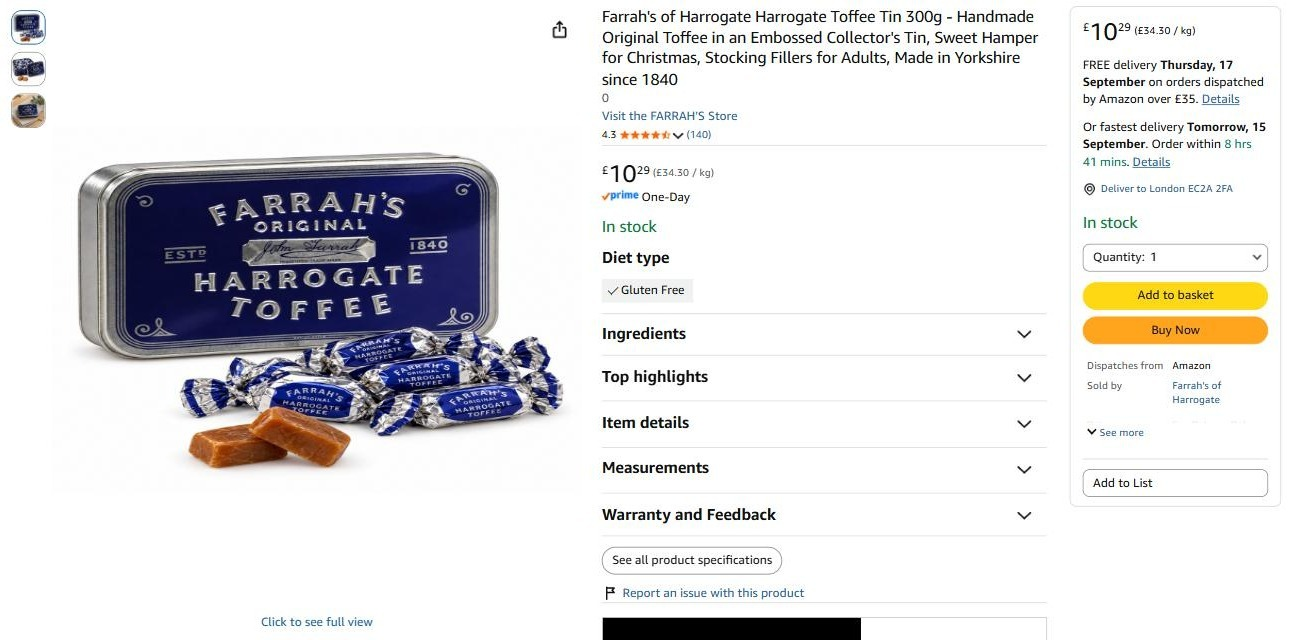
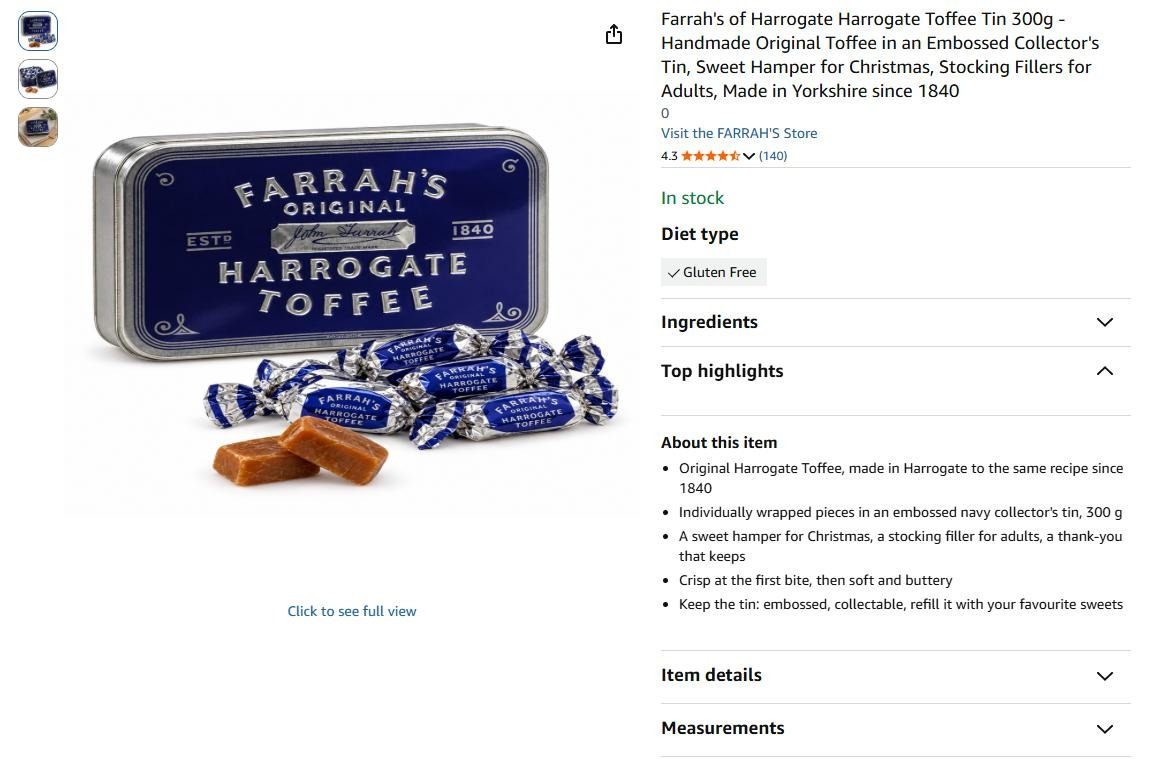
farrahs demo a: sliders without buybox, Top highlights opened, bullets visible
Claude-Session: https://claude.ai/code/session_01WBhwAjBpRJBfiwssYcnucH

diff --git a/r/farrahs-demo-a/index.html b/r/farrahs-demo-a/index.html
@@ -264,13 +264,13 @@
 
   <!-- 3 · ONE PRODUCT, NOW → RELISTED -->
   <section class="container section" id="product" aria-labelledby="product-title">
-    <div class="section-heading"><div><p class="eyebrow">02 / TWO PAGES, NOW AND RELISTED</p><h2 id="product-title">Two of your pages.<br><em>Drag to see them relisted.</em></h2></div><p>Two of your real Amazon pages, the fudge tin and the toffee tin. Left, the page as it is today. Right, the same page with the main image, title and offer we would file: everything else is Amazon's own. Drag the handle.</p></div>
+    <div class="section-heading"><div><p class="eyebrow">02 / TWO PAGES, NOW AND RELISTED</p><h2 id="product-title">Two of your pages.<br><em>Drag to see them relisted.</em></h2></div><p>Two of your real Amazon pages, the fudge tin and the toffee tin. Left, the page as it is today. Right, the same page with the main image, title and bullets we would file, "Top highlights" opened so the bullets show. Everything else is Amazon's own. Drag the handle.</p></div>
 
     <div class="page-block">
       <div class="page-head"><span class="page-num">01</span><div><h3>Butter Fudge, Art Nouveau tin 300g</h3><p>654 reviews · 4.6 stars · on Amazon since December 2012</p></div><span class="page-asin">B00APYN3TG</span></div>
       <div class="ba shot" data-ib>
-        <img class="ib-after" src="img/after-fudge.jpg" alt="Butter Fudge, Art Nouveau tin 300g: the same Amazon page relisted, with new main image, title, price and Prime" width="1540" height="690">
-        <img class="ib-before" src="img/before-fudge.jpg" alt="Butter Fudge, Art Nouveau tin 300g: the Amazon page today, currently unavailable" width="1540" height="690">
+        <img class="ib-after" src="img/after-fudge.jpg" alt="Butter Fudge, Art Nouveau tin 300g: the same Amazon page relisted, with new main image, title and bullets" width="1150" height="855">
+        <img class="ib-before" src="img/before-fudge.jpg" alt="Butter Fudge, Art Nouveau tin 300g: the Amazon page today, currently unavailable" width="1150" height="855">
         <div class="ba-handle" aria-hidden="true"><span></span></div>
         <input class="ba-range" type="range" min="0" max="100" value="30" aria-label="Drag to compare the page today with the relisted page">
       </div>
@@ -279,8 +279,8 @@
     <div class="page-block">
       <div class="page-head"><span class="page-num">02</span><div><h3>Harrogate Toffee, Crescent tin 300g</h3><p>140 reviews · 4.3 stars · on Amazon since March 2012</p></div><span class="page-asin">B007N3GU0Q</span></div>
       <div class="ba shot" data-ib>
-        <img class="ib-after" src="img/after-toffee.jpg" alt="Harrogate Toffee, Crescent tin 300g: the same Amazon page relisted, with new main image, title, price and Prime" width="1290" height="640">
-        <img class="ib-before" src="img/before-toffee.jpg" alt="Harrogate Toffee, Crescent tin 300g: the Amazon page today, currently unavailable" width="1290" height="640">
+        <img class="ib-after" src="img/after-toffee.jpg" alt="Harrogate Toffee, Crescent tin 300g: the same Amazon page relisted, with new main image, title and bullets" width="1150" height="760">
+        <img class="ib-before" src="img/before-toffee.jpg" alt="Harrogate Toffee, Crescent tin 300g: the Amazon page today, currently unavailable" width="1150" height="760">
         <div class="ba-handle" aria-hidden="true"><span></span></div>
         <input class="ba-range" type="range" min="0" max="100" value="30" aria-label="Drag to compare the page today with the relisted page">
       </div>
